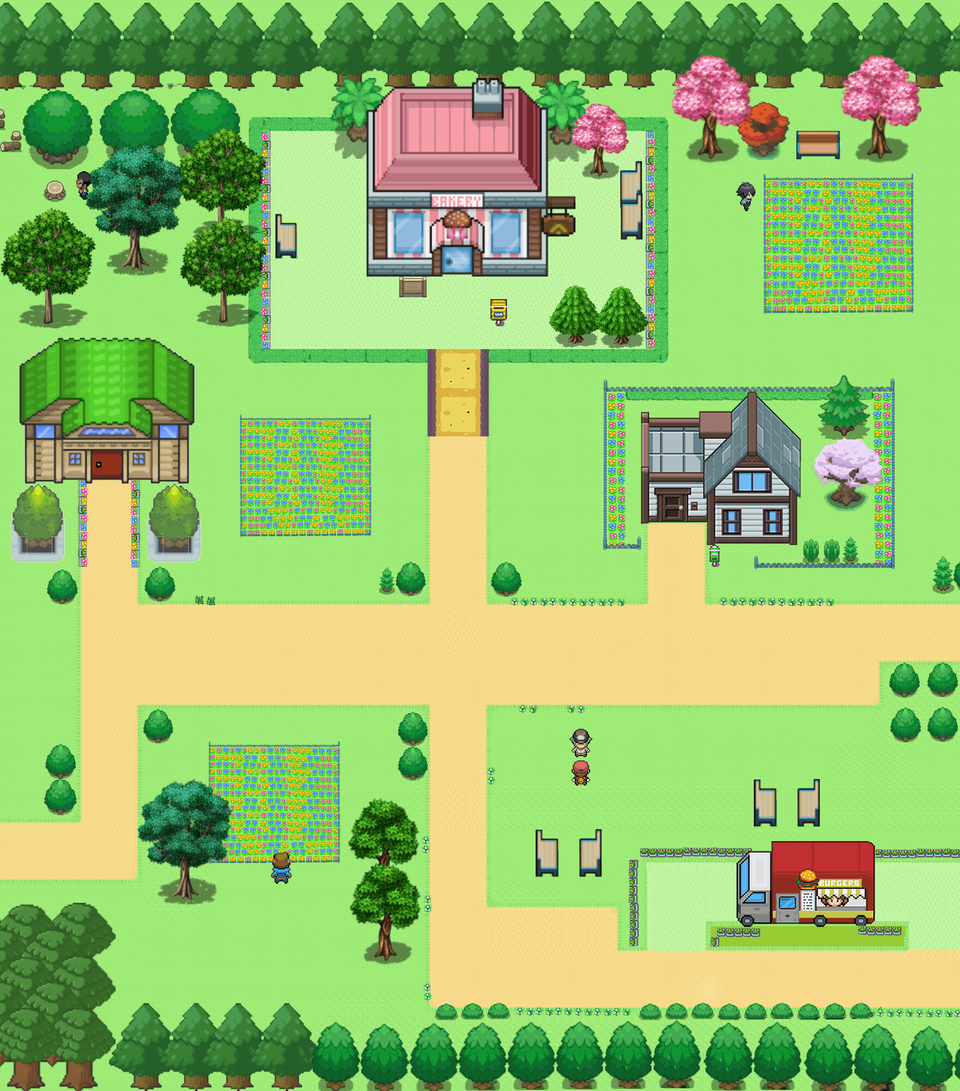
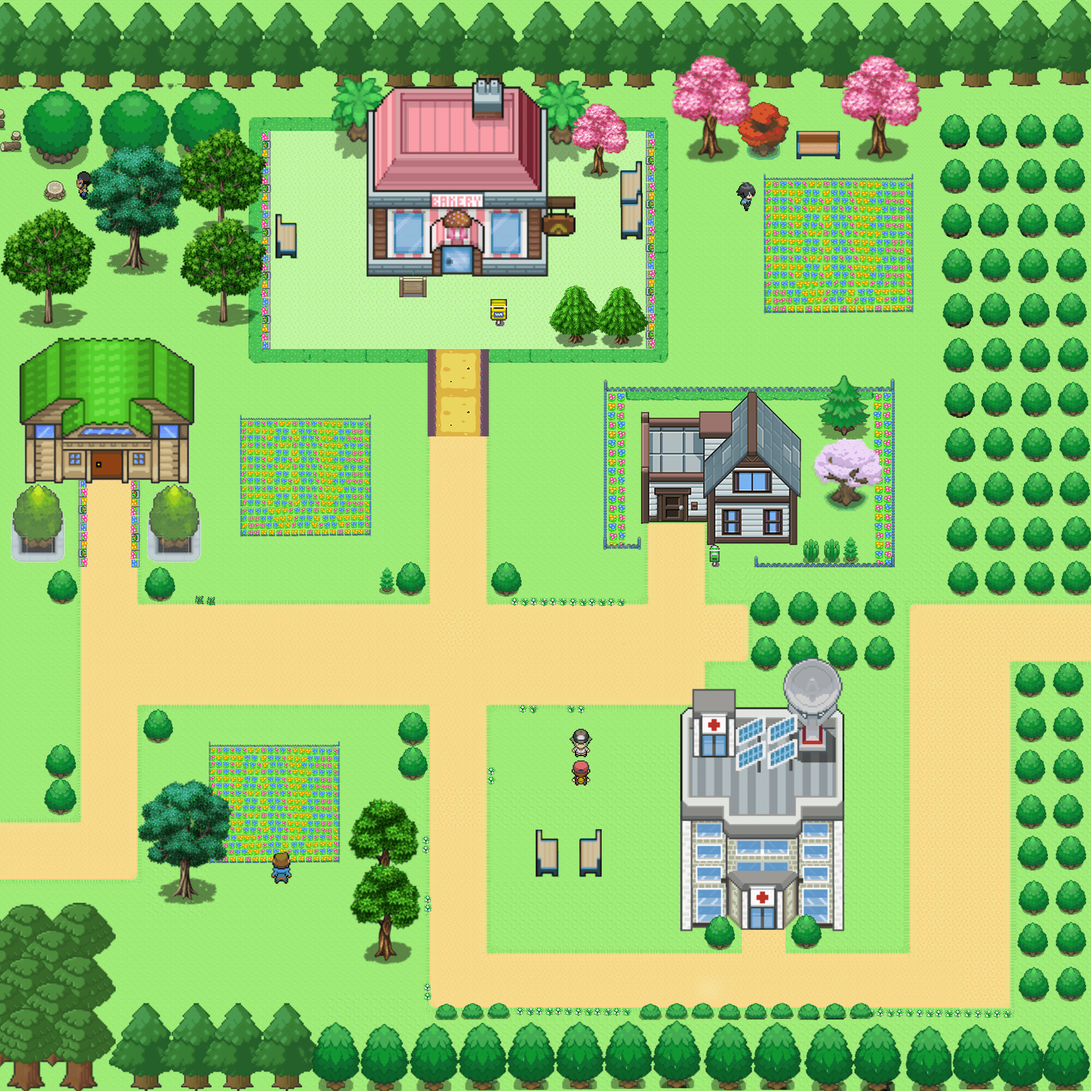
New town map

diff --git a/src/data/Maps/town_center.js b/src/data/Maps/town_center.js
@@ -3,31 +3,31 @@ import { TOWN_CENTER_MUSIC, MAPS_BASE } from "../../helpers/constants";
 export const townCenter = {
 
     tiles: [
-        [  10,  10,  10,  10,  10,  10,  10,  10,  10,  10,  10,  10,  10,  10,  10,  10,  10,  10,  10,  10,  10,  10,],
-        [  10,  10,  10,  10,  10,  10,  10,  10,  10,  10,  10,  10,  10,  10,  10,  10,  10,  10,  10,  10,  10,  10,],
-        [  10,  10,  10,  10,  10,  10,  10,  10,  10,  10,  10,  10,  10,  10,  10,  10,  10,  10,  10,  10,  10,  10,],
-        [  10,  10,  10,  10,  10,  10,   0,   0,  10,  10,  10,  10,  10,  10,  10,  10,  10,  10,  10,  10,  10,  10,],
-        [  10,  10,  10,  10,  10,  10,   0,   0,  10,  10,  10,  10,  10,  10,  10,  10,  10,  10,  10,  10,  10,  10,],
-        [  10,  10,  10,  10,  10,  10,  10,   0,  10,  10,  10,  10,  10,  10,  10,  10,  10,  10,  10,  10,  10,  10,],
-        [  10,  10,  10,  10,  10,  10,   0,   0,   0,  10,   0,  10,  10,  10,  10,  10,  10,  10,  10,  10,  10,  10,],
-        [  10,  10,  10,  10,  10,  10,   0,   0,   0,   0,   0,  10,  10,  10,  10,  10,  10,  10,  10,  10,  10,  10,],
-        [  10,  10,  10,  10,  10,  10,  10,  10,  10,  10,   0,  10,  10,  10,  10,  10,  10,  10,  10,  10,  10,  10,],
-        [  10,  10,  10,  10,  10,  10,  10,  10,  10,  10,   0,  10,  10,  10,  10,  10,  10,  10,  10,  10,  10,  10,],
-        [  10,  10,  10,  10,  10,  10,  10,  10,  10,  10,   0,  10,  10,  10,  10,  10,  10,  10,  10,  10,  10,  10,],
-        [  10,  10,   0,  10,  10,  10,  10,  10,  10,  10,   0,  10,  10,  10,  10,  10,  10,  10,  10,  10,  10,  10,],
-        [  10,  10,   0,  10,  10,  10,  10,  10,  10,  10,   0,  10,  10,  10,  10,   0,  10,  10,  10,  10,  10,  10,],
-        [  10,  10,   0,  10,  10,  10,  10,  10,  10,  10,   0,  10,  10,  10,  10,   0,  10,  10,  10,  10,  10,  10,],
-        [  10,  10,   0,   0,   0,   0,   0,   0,   0,   0,   0,   0,   0,   0,   0,   0,   0,   0,   0,   0,   0,   0,],
-        [  10,  10,   0,   0,   0,   0,   0,   0,   0,   0,   0,   0,   0,   0,   0,   0,   0,   0,   0,   0,  10,  10,],
-        [  10,  10,   0,  10,  10,  10,  10,  10,  10,  10,   0,  10,  10,  10,  10,  10,  10,  10,  10,  10,  10,  10,],
-        [  10,  10,   0,  10,  10,  10,  10,  10,  10,  10,   0,  10,  10,  10,  10,  10,  10,  10,  10,  10,  10,  10,],
-        [  10,  10,   0,  10,  10,  10,  10,  10,  10,  10,   0,  10,  10,  10,  10,  10,  10,  10,  10,  10,  10,  10,],
-        [   0,   0,   0,  10,  10,  10,  10,  10,  10,  10,   0,  10,  10,  10,  10,  10,  10,  10,  10,  10,  10,  10,],
-        [  10,  10,  10,  10,  10,  10,  10,  10,  10,  10,   0,  10,  10,  10,  10,   0,   0,  10,  10,  10,   0,   0,],
-        [  10,  10,  10,  10,  10,  10,  10,  10,  10,  10,   0,   0,   0,   0,  10,   0,  10,  10,  10,  10,  10,   0,],
-        [  10,  10,  10,  10,  10,  10,  10,  10,  10,  10,   0,   0,   0,   0,   0,   0,   0,   0,   0,   0,   0,   0,],
-        [  10,  10,  10,  10,  10,  10,  10,  10,  10,  10,  10,  10,  10,  10,  10,  10,  10,  10,  10,  10,  10,  10,],
-        [  10,  10,  10,  10,  10,  10,  10,  10,  10,  10,  10,  10,  10,  10,  10,  10,  10,  10,  10,  10,  10,  10,],
+        [  10,  10,  10,  10,  10,  10,  10,  10,  10,  10,  10,  10,  10,  10,  10,  10,  10,  10,  10,  10,  10,  10,  10,  10,  10,],
+        [  10,  10,  10,  10,  10,  10,  10,  10,  10,  10,  10,  10,  10,  10,  10,  10,  10,  10,  10,  10,  10,  10,  10,  10,  10,],
+        [  10,  10,  10,  10,  10,  10,  10,  10,  10,  10,  10,  10,  10,  10,  10,  10,  10,  10,  10,  10,  10,  10,  10,  10,  10,],
+        [  10,  10,  10,  10,  10,  10,   0,   0,  10,  10,  10,  10,  10,  10,  10,  10,  10,  10,  10,  10,  10,  10,  10,  10,  10,],
+        [  10,  10,  10,  10,  10,  10,   0,   0,  10,  10,  10,  10,  10,  10,  10,  10,  10,  10,  10,  10,  10,  10,  10,  10,  10,],
+        [  10,  10,  10,  10,  10,  10,  10,   0,  10,  10,  10,  10,  10,  10,  10,  10,  10,  10,  10,  10,  10,  10,  10,  10,  10,],
+        [  10,  10,  10,  10,  10,  10,   0,   0,   0,  10,   0,  10,  10,  10,  10,  10,  10,  10,  10,  10,  10,  10,  10,  10,  10,],
+        [  10,  10,  10,  10,  10,  10,   0,   0,   0,   0,   0,  10,  10,  10,  10,  10,  10,  10,  10,  10,  10,  10,  10,  10,  10,],
+        [  10,  10,  10,  10,  10,  10,  10,  10,  10,  10,   0,  10,  10,  10,  10,  10,  10,  10,  10,  10,  10,  10,  10,  10,  10,],
+        [  10,  10,  10,  10,  10,  10,  10,  10,  10,  10,   0,  10,  10,  10,  10,  10,  10,  10,  10,  10,  10,  10,  10,  10,  10,],
+        [  10,  10,  10,  10,  10,  10,  10,  10,  10,  10,   0,  10,  10,  10,  10,  10,  10,  10,  10,  10,  10,  10,  10,  10,  10,],
+        [  10,  10,   0,  10,  10,  10,  10,  10,  10,  10,   0,  10,  10,  10,  10,  10,  10,  10,  10,  10,  10,  10,  10,  10,  10,],
+        [  10,  10,   0,  10,  10,  10,  10,  10,  10,  10,   0,  10,  10,  10,  10,   0,  10,  10,  10,  10,  10,  10,  10,  10,  10,],
+        [  10,  10,   0,  10,  10,  10,  10,  10,  10,  10,   0,  10,  10,  10,  10,   0,  10,  10,  10,  10,  10,  10,  10,  10,  10,],
+        [  10,  10,   0,   0,   0,   0,   0,   0,   0,   0,   0,   0,   0,   0,   0,   0,   0,  10,  10,  10,  10,   0,   0,   0,   0,],
+        [  10,  10,   0,   0,   0,   0,   0,   0,   0,   0,   0,   0,   0,   0,   0,   0,  10,  10,  10,  10,  10,   0,   0,  10,  10,],
+        [  10,  10,   0,  10,  10,  10,  10,  10,  10,  10,   0,  10,  10,  10,  10,  10,  10,  10,  10,  10,  10,   0,   0,  10,  10,],
+        [  10,  10,   0,  10,  10,  10,  10,  10,  10,  10,   0,  10,  10,  10,  10,  10,  10,  10,  10,  10,  10,   0,   0,  10,  10,],
+        [  10,  10,   0,  10,  10,  10,  10,  10,  10,  10,   0,  10,  10,  10,  10,  10,  10,  10,  10,  10,  10,   0,   0,  10,  10,],
+        [   0,   0,   0,  10,  10,  10,  10,  10,  10,  10,   0,  10,  10,  10,  10,  10,  10,  10,  10,  10,  10,   0,   0,  10,  10,],
+        [  10,  10,  10,  10,  10,  10,  10,  10,  10,  10,   0,  10,  10,  10,  10,  10,  10,  10,  10,  10,   0,   0,   0,  10,  10,],
+        [  10,  10,  10,  10,  10,  10,  10,  10,  10,  10,   0,  10,  10,  10,  10,  10,  10,   0,  10,  10,  10,   0,   0,  10,  10,],
+        [  10,  10,  10,  10,  10,  10,  10,  10,  10,  10,   0,   0,   0,   0,   0,   0,   0,   0,   0,   0,   0,   0,   0,  10,  10,],
+        [  10,  10,  10,  10,  10,  10,  10,  10,  10,  10,  10,  10,  10,  10,  10,  10,  10,  10,  10,  10,  10,  10,  10,  10,  10,],
+        [  10,  10,  10,  10,  10,  10,  10,  10,  10,  10,  10,  10,  10,  10,  10,  10,  10,  10,  10,  10,  10,  10,  10,  10,  10,],
     ],
 
     src: `${MAPS_BASE}/town_center.png`,
